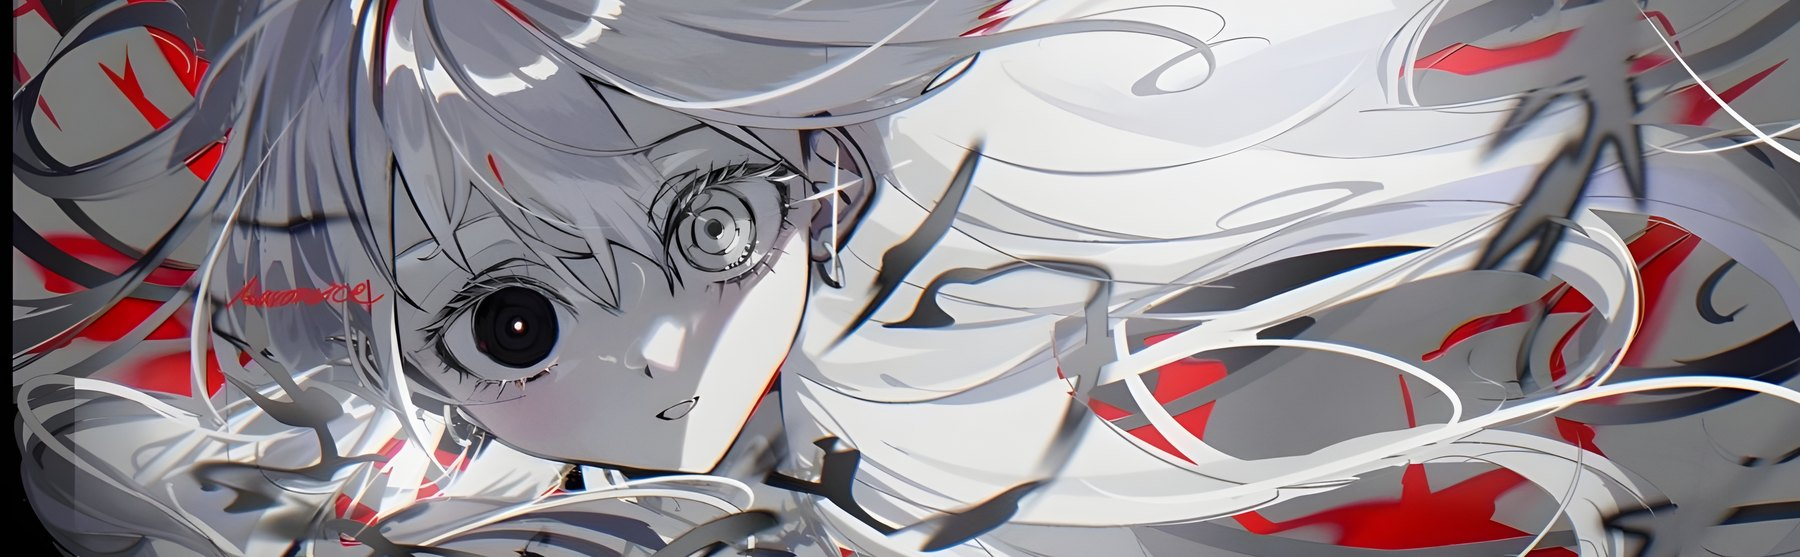
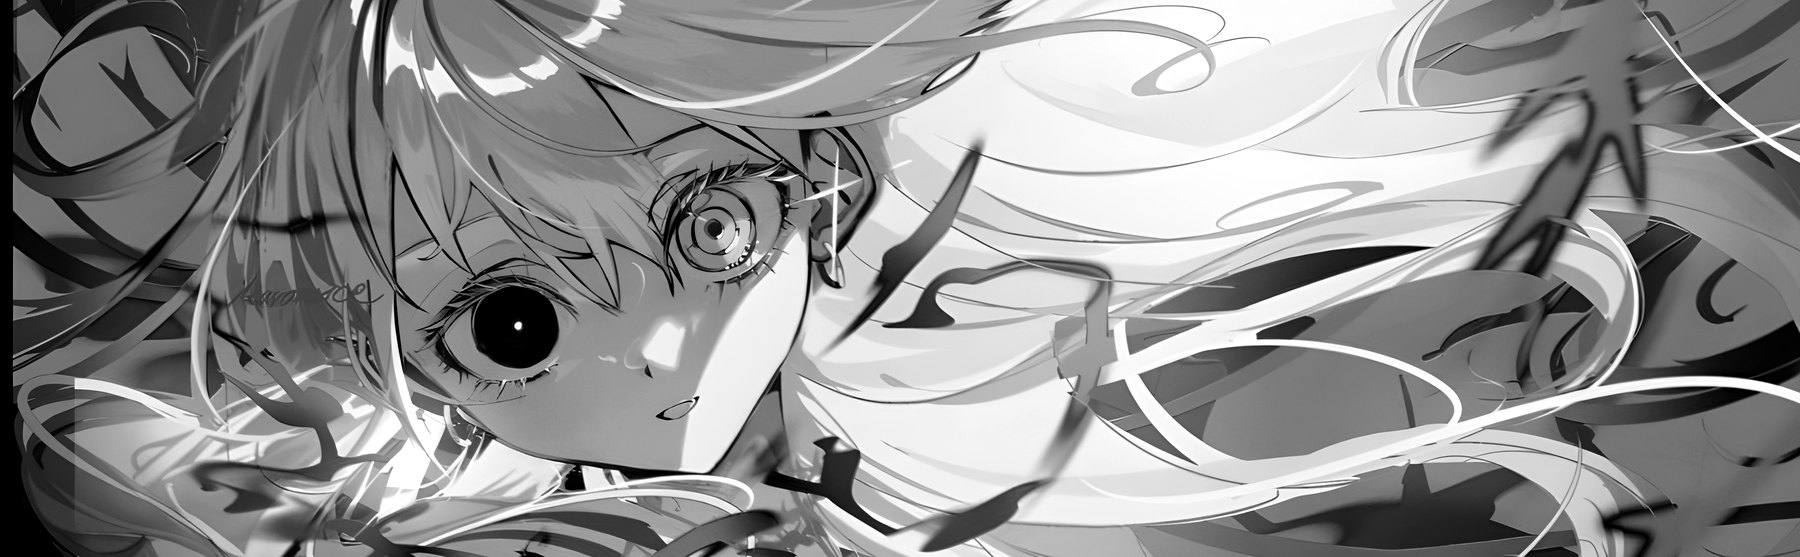
Make profile README minimal, black and white, English only
Convert the banner to grayscale, replace the status window with a plain
monochrome card, drop Japanese text and colored accents, and switch the
badges, stats and contribution snake to a black and white palette.

Claude-Session: https://claude.ai/code/session_0171GAks1MTs4Ccv3aUhQ57q

diff --git a/README.md b/README.md
@@ -1,137 +1,57 @@
-<!-- ═══════════════════════════  序章 · PROLOGUE  ═══════════════════════════ -->
-
 <p align="center">
   <img src="./assets/banner.jpg" alt="saykachi banner" width="100%" />
 </p>
 
 <p align="center">
-  <a href="https://github.com/saykachi">
-    <img src="https://readme-typing-svg.demolab.com?font=JetBrains+Mono&weight=700&size=24&duration=2800&pause=900&color=FF2E4D&center=true&vCenter=true&width=720&lines=%E3%81%93%E3%82%93%E3%81%AB%E3%81%A1%E3%81%AF%2C+I'm+saykachi+%E2%9C%A6;Full-stack+Developer+%2F%2F+%E9%96%8B%E7%99%BA%E8%80%85;Rust+%C3%97+TypeScript+%C3%97+Tauri;Turning+caffeine+into+cross-platform+magic" alt="Typing SVG" />
-  </a>
+  <img src="https://readme-typing-svg.demolab.com?font=JetBrains+Mono&weight=500&size=20&duration=3000&pause=1000&color=F2F2F2&center=true&vCenter=true&width=600&lines=hi%2C+i'm+saykachi;full-stack+developer;rust+%C2%B7+typescript+%C2%B7+tauri" alt="typing" />
 </p>
 
 <p align="center">
-  <img src="https://komarev.com/ghpvc/?username=saykachi&label=VISITORS&color=ff2e4d&style=for-the-badge" alt="profile views" />
-  <a href="https://github.com/saykachi?tab=followers"><img src="https://img.shields.io/github/followers/saykachi?label=FOLLOWERS&style=for-the-badge&color=0d0d0d&labelColor=ff2e4d" alt="followers" /></a>
-  <img src="https://img.shields.io/badge/STATUS-OPEN_TO_WORK-0d0d0d?style=for-the-badge&labelColor=ff2e4d" alt="status" />
+  <img src="./assets/status.svg" alt="profile card" width="820" />
 </p>
 
 <br />
 
-<!-- ═══════════════════════════  第一章 · STATUS  ═══════════════════════════ -->
+### about
 
-<h2 align="center">⛩ 第一章 · <code>ステータス</code></h2>
+I build fast, reliable cross-platform applications and web services — from interface design to server-side logic. Clean architecture and clean code come first.
 
-<p align="center">
-  <img src="./assets/status.svg" alt="saykachi status window" width="820" />
-</p>
-
-<br />
-
-<!-- ═══════════════════════════  第二章 · ABOUT  ═══════════════════════════ -->
-
-<h2 align="center">🩸 第二章 · <code>自己紹介</code></h2>
-
-<table>
-<tr>
-<td width="55%" valign="top">
-
-```ts
-const saykachi = {
-  class:     "Full-stack Developer",
-  alignment: "clean code / chaotic hair",
-  realm:     ["Web", "Desktop", "Server"],
-
-  arsenal: {
-    frontend: ["React", "Vue", "Next.js", "Tailwind", "Vite"],
-    backend:  ["Node.js", "Express", "Rust"],
-    desktop:  ["Tauri"],
-    database: ["MongoDB"],
-  },
-
-  passiveSkills: [
-    "RESTful API Design",
-    "Unit & Integration Testing",
-    "Performance Optimization",
-    "Application Security",
-  ],
-
-  motto: "一つのコードベース、全てのプラットフォーム。",
-};
-```
-
-</td>
-<td width="45%" valign="top">
-
-> *「強さとは、壊れないことじゃない。<br/>何度でも立ち上がることだ。」*
->
-> — strength isn't never breaking,<br/>it's getting back up every time.
+- desktop apps with **Tauri** and **Rust**, native speed without the bloat
+- responsive web apps on **React**, **Vue** and **Next.js**
+- APIs with **Node.js / Express** and **Rust**, backed by **MongoDB**
 
 <br />
 
-**✦ Current quest log**
+### stack
 
-- 🗡 Building native-fast desktop apps with **Tauri + Rust**
-- 🌸 Crafting responsive web apps on **React / Vue / Next.js**
-- ⚙ Forging APIs with **Node.js / Express** & **Rust**
-- 📜 Keeping architecture clean, data flows sane
-
-**✦ Party invite**
-
-Open to new projects & collabs — just send a raid request ⚔
-
-</td>
-</tr>
-</table>
-
-<br />
-
-<!-- ═══════════════════════════  第三章 · ARSENAL  ═══════════════════════════ -->
-
-<h2 align="center">⚔ 第三章 · <code>武器庫</code></h2>
-
-<p align="center">
-  <a href="https://skillicons.dev">
-    <img src="https://skillicons.dev/icons?i=js,ts,react,vue,nextjs,tailwind,vite&theme=dark" alt="frontend" />
-    <br />
-    <img src="https://skillicons.dev/icons?i=nodejs,express,rust,tauri,mongodb,git,github&theme=dark" alt="backend & tools" />
-  </a>
-</p>
-
-<p align="center">
-  <img src="https://img.shields.io/badge/FRONTEND-ff2e4d?style=flat-square" />
-  <img src="https://img.shields.io/badge/BACKEND-0d0d0d?style=flat-square" />
-  <img src="https://img.shields.io/badge/DESKTOP-ff2e4d?style=flat-square" />
-  <img src="https://img.shields.io/badge/API_DESIGN-0d0d0d?style=flat-square" />
-  <img src="https://img.shields.io/badge/TESTING-ff2e4d?style=flat-square" />
-  <img src="https://img.shields.io/badge/PERFORMANCE-0d0d0d?style=flat-square" />
-  <img src="https://img.shields.io/badge/SECURITY-ff2e4d?style=flat-square" />
-</p>
+![JavaScript](https://img.shields.io/badge/javascript-000?style=flat-square&logo=javascript&logoColor=white)
+![TypeScript](https://img.shields.io/badge/typescript-000?style=flat-square&logo=typescript&logoColor=white)
+![React](https://img.shields.io/badge/react-000?style=flat-square&logo=react&logoColor=white)
+![Vue](https://img.shields.io/badge/vue-000?style=flat-square&logo=vuedotjs&logoColor=white)
+![Next.js](https://img.shields.io/badge/next.js-000?style=flat-square&logo=nextdotjs&logoColor=white)
+![Tailwind](https://img.shields.io/badge/tailwind-000?style=flat-square&logo=tailwindcss&logoColor=white)
+![Vite](https://img.shields.io/badge/vite-000?style=flat-square&logo=vite&logoColor=white)
+![Node.js](https://img.shields.io/badge/node.js-000?style=flat-square&logo=nodedotjs&logoColor=white)
+![Express](https://img.shields.io/badge/express-000?style=flat-square&logo=express&logoColor=white)
+![Rust](https://img.shields.io/badge/rust-000?style=flat-square&logo=rust&logoColor=white)
+![Tauri](https://img.shields.io/badge/tauri-000?style=flat-square&logo=tauri&logoColor=white)
+![MongoDB](https://img.shields.io/badge/mongodb-000?style=flat-square&logo=mongodb&logoColor=white)
+![Git](https://img.shields.io/badge/git-000?style=flat-square&logo=git&logoColor=white)
 
 <br />
 
-<!-- ═══════════════════════════  第四章 · BATTLE RECORD  ═══════════════════════════ -->
-
-<h2 align="center">📊 第四章 · <code>戦闘記録</code></h2>
+### stats
 
 <p align="center">
-  <img height="170" src="https://github-readme-stats.vercel.app/api?username=saykachi&show_icons=true&hide_border=true&bg_color=0d0d0d&title_color=ff2e4d&icon_color=ff2e4d&text_color=e6e6e6&ring_color=ff2e4d&rank_icon=github&custom_title=saykachi%E3%81%AE%E6%88%A6%E7%B8%BE" alt="GitHub stats" />
-  <img height="170" src="https://github-readme-stats.vercel.app/api/top-langs/?username=saykachi&layout=compact&hide_border=true&bg_color=0d0d0d&title_color=ff2e4d&text_color=e6e6e6&langs_count=8&custom_title=%E4%BD%BF%E7%94%A8%E8%A8%80%E8%AA%9E" alt="Top languages" />
+  <img height="165" src="https://github-readme-stats.vercel.app/api?username=saykachi&show_icons=true&hide_border=true&hide_title=true&bg_color=000000&title_color=f2f2f2&icon_color=f2f2f2&text_color=a3a3a3&ring_color=f2f2f2&rank_icon=github" alt="github stats" />
+  <img height="165" src="https://github-readme-stats.vercel.app/api/top-langs/?username=saykachi&layout=compact&hide_border=true&hide_title=true&bg_color=000000&text_color=a3a3a3&langs_count=6" alt="top languages" />
 </p>
 
 <p align="center">
-  <img src="https://streak-stats.demolab.com?user=saykachi&hide_border=true&background=0D0D0D&ring=FF2E4D&fire=FF2E4D&currStreakNum=FFFFFF&currStreakLabel=FF2E4D&sideNums=FFFFFF&sideLabels=E6E6E6&dates=8A8A8A&stroke=2A2A2E" alt="GitHub streak" />
-</p>
-
-<p align="center">
-  <img src="https://github-readme-activity-graph.vercel.app/graph?username=saykachi&bg_color=0d0d0d&color=e6e6e6&line=ff2e4d&point=ffffff&area=true&area_color=ff2e4d&hide_border=true&custom_title=%E9%96%8B%E7%99%BA%E6%B4%BB%E5%8B%95%E3%82%B0%E3%83%A9%E3%83%95" alt="Activity graph" width="100%" />
+  <img src="https://streak-stats.demolab.com?user=saykachi&hide_border=true&background=000000&ring=F2F2F2&fire=F2F2F2&currStreakNum=F2F2F2&currStreakLabel=F2F2F2&sideNums=F2F2F2&sideLabels=A3A3A3&dates=6E6E6E&stroke=262626" alt="streak" />
 </p>
 
 <br />
-
-<!-- ═══════════════════════════  終章 · EPILOGUE  ═══════════════════════════ -->
-
-<h2 align="center">🐍 終章 · <code>貢献の蛇</code></h2>
 
 <p align="center">
   <picture>
@@ -141,8 +61,4 @@ Open to new projects & collabs — just send a raid request ⚔
   </picture>
 </p>
 
-<p align="center">
-  <i>「また会おう、旅人よ。」 — see you on the next commit, traveler.</i>
-</p>
-
-<img src="https://capsule-render.vercel.app/api?type=waving&color=0:0d0d0d,50:3a0a12,100:ff2e4d&height=120&section=footer" width="100%" alt="footer" />
+<p align="center"><sub>open to new projects — feel free to reach out.</sub></p>
